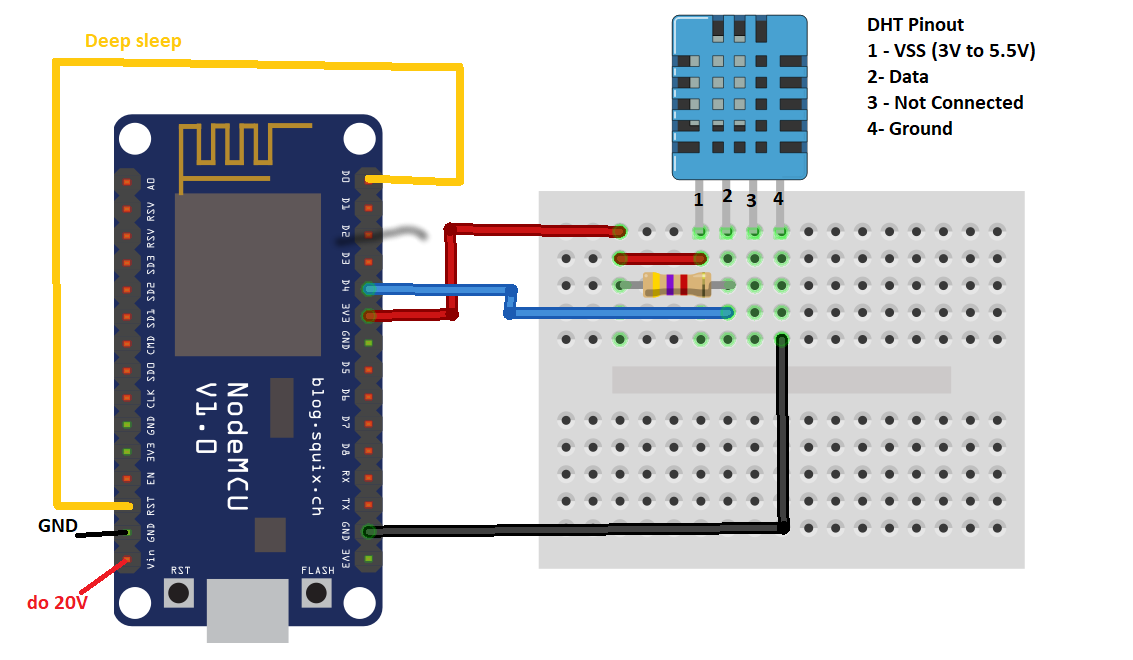
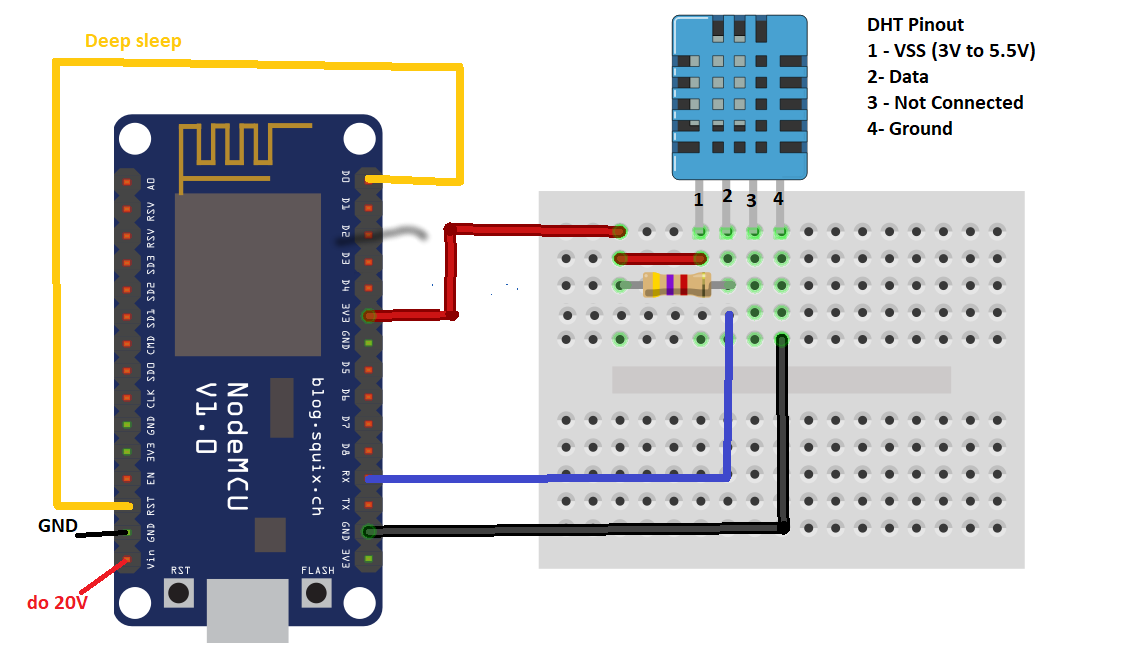
D4->RX/D9
Na RX pinu bolje deluje :)

Changed region(s): [[0.3089, 0.4242, 0.6487, 0.7576]]

diff --git a/README.md b/README.md
@@ -44,5 +44,3 @@ git push
 [DHT22Tesp](https://github.com/beegee-tokyo/DHTesp)
 
 [Povezava z baterijo](http://henrysbench.capnfatz.com/henrys-bench/arduino-projects-tips-and-more/powering-the-esp-12e-nodemcu-development-board/)
-
-[Problem z deep sleep](https://www.letscontrolit.com/forum/viewtopic.php?f=5&t=2316)
